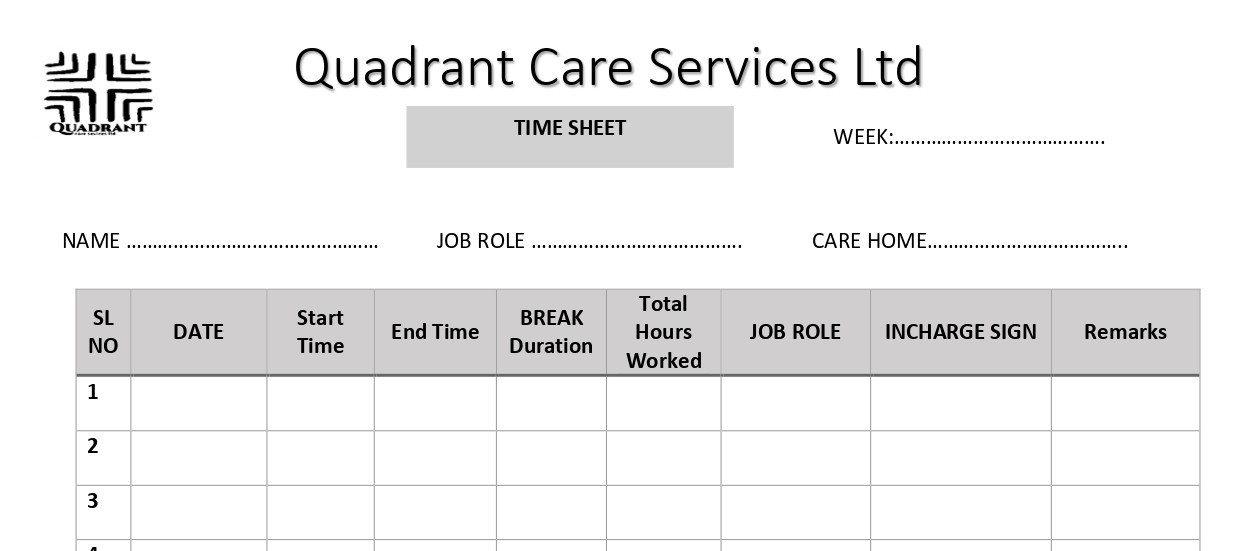
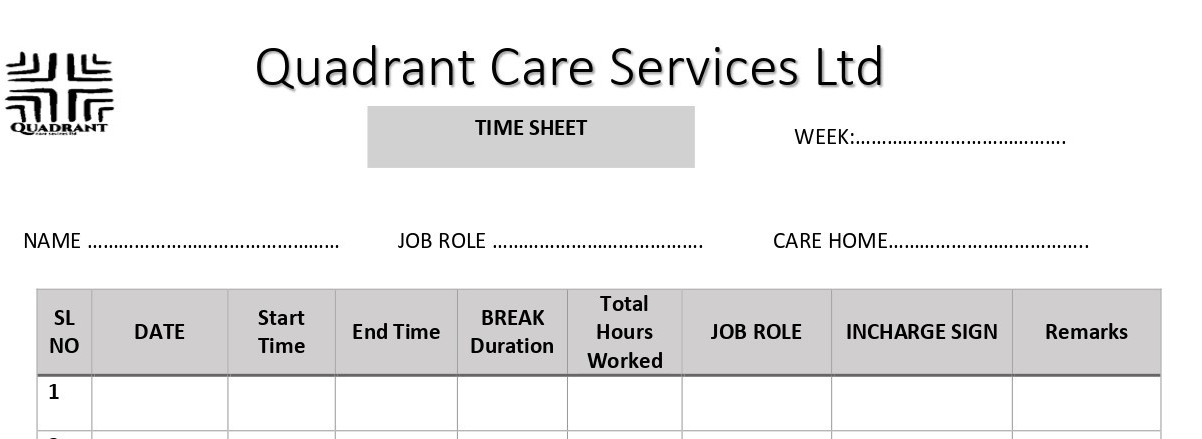
console update

diff --git a/public/app.js b/public/app.js
@@ -12,8 +12,8 @@ const TEMPLATE_URL = "/template.png";
 
 /**
  * IMPORTANT:
- * These coordinates are tuned for your A4 landscape-style template.
- * If anything is off by a little, we adjust these numbers.
+ * These coordinates assume the preview canvas is the SAME pixel size as the template image.
+ * We enforce that in renderTimesheet() by setting preview.width/height from template.
  */
 const COORDS = {
   week: { x: 1960, y: 265 },
@@ -32,11 +32,13 @@ const COORDS = {
     break: 920,
     total: 1150,
     jobRole: 1380,
-    signBoxX: 1600,   // where signature box starts visually
-    signBoxY: 520,    // top of signature cell area
-    signBoxW: 360,    // width of signature cell area
-    signBoxH: 120,    // height of signature cell area
     remarks: 1980,
+
+    // Signature box
+    signBoxX: 1600,
+    signBoxY: 520,
+    signBoxW: 360,
+    signBoxH: 120,
   },
 };
 
@@ -44,33 +46,37 @@ async function loadTemplate() {
   const img = new Image();
   img.crossOrigin = "anonymous";
   img.src = TEMPLATE_URL;
+
   await new Promise((res, rej) => {
     img.onload = res;
-    img.onerror = rej;
+    img.onerror = () => rej(new Error("Failed to load template.png"));
   });
+
   return img;
 }
 
 function formatDateForSheet(yyyy_mm_dd) {
   // input: "2026-02-05" -> output: "05/02/2026"
   if (!yyyy_mm_dd) return "";
-  const [y, m, d] = yyyy_mm_dd.split("-");
+  const [y, m, d] = String(yyyy_mm_dd).split("-");
+  if (!y || !m || !d) return String(yyyy_mm_dd);
   return `${d}/${m}/${y}`;
 }
 
-function drawText(value, x, y, font = "32px Arial") {
+function drawText(value, x, y, font = "30px Arial") {
   pctx.font = font;
   pctx.fillStyle = "#111";
-  pctx.textBaseline = "alphabetic";
+  pctx.textBaseline = "middle"; // easier alignment than alphabetic
   pctx.fillText(String(value ?? ""), x, y);
 }
 
 /** ---------------- Signature Pad ---------------- */
 function initSignaturePad() {
-  // Signature style
   sctx.lineWidth = 3;
   sctx.lineCap = "round";
   sctx.strokeStyle = "#111";
+
+  // Fill background white
   sctx.fillStyle = "#fff";
   sctx.fillRect(0, 0, sigPad.width, sigPad.height);
 
@@ -81,7 +87,7 @@ function initSignaturePad() {
     const rect = sigPad.getBoundingClientRect();
     const clientX = e.touches ? e.touches[0].clientX : e.clientX;
     const clientY = e.touches ? e.touches[0].clientY : e.clientY;
-    // scale to canvas coords
+
     const x = ((clientX - rect.left) / rect.width) * sigPad.width;
     const y = ((clientY - rect.top) / rect.height) * sigPad.height;
     return { x, y };
@@ -97,10 +103,12 @@ function initSignaturePad() {
     if (!drawing) return;
     e.preventDefault();
     const pos = getPos(e);
+
     sctx.beginPath();
     sctx.moveTo(last.x, last.y);
     sctx.lineTo(pos.x, pos.y);
     sctx.stroke();
+
     last = pos;
   }
 
@@ -126,13 +134,24 @@ function initSignaturePad() {
 }
 initSignaturePad();
 
+/** ---------------- Click-to-get-coordinates helper ---------------- */
+preview.addEventListener("click", (e) => {
+  const rect = preview.getBoundingClientRect();
+  const x = Math.round(((e.clientX - rect.left) / rect.width) * preview.width);
+  const y = Math.round(((e.clientY - rect.top) / rect.height) * preview.height);
+  console.log("COORD:", { x, y });
+});
+
 /** ---------------- Render final image ---------------- */
 async function renderTimesheet(data) {
   const template = await loadTemplate();
 
-  // Match template into preview canvas
+  // ✅ Force preview canvas to match template pixels exactly
+  preview.width = template.naturalWidth;
+  preview.height = template.naturalHeight;
+
   pctx.clearRect(0, 0, preview.width, preview.height);
-  pctx.drawImage(template, 0, 0, preview.width, preview.height);
+  pctx.drawImage(template, 0, 0);
 
   // Header fields
   drawText(data.week, COORDS.week.x, COORDS.week.y);
@@ -143,17 +162,15 @@ async function renderTimesheet(data) {
   // Single row text
   const y = COORDS.rowY;
   drawText("1", COORDS.colX.slno, y);
-
   drawText(formatDateForSheet(data.date), COORDS.colX.date, y);
   drawText(data.startTime, COORDS.colX.start, y);
   drawText(data.endTime, COORDS.colX.end, y);
-  drawText(String(data.breakMins), COORDS.colX.break, y);
-  drawText(String(data.totalHours), COORDS.colX.total, y);
-  drawText(data.jobRoleTop, COORDS.colX.jobRole, y); // reuse job role
+  drawText(String(data.breakMins ?? ""), COORDS.colX.break, y);
+  drawText(String(data.totalHours ?? ""), COORDS.colX.total, y);
+  drawText(data.jobRoleTop, COORDS.colX.jobRole, y);
   drawText(data.remarks, COORDS.colX.remarks, y);
 
-  // Place signature image into the “INCHARGE SIGN” cell
-  // We crop the signature pad and scale it into the signature box.
+  // Signature
   const sigImg = await canvasToImage(sigPad);
   pctx.drawImage(
     sigImg,
@@ -190,19 +207,26 @@ form.addEventListener("submit", async (e) => {
     const blob = await canvasToBlob(preview, "image/png");
     if (!blob) throw new Error("Failed to generate PNG");
 
-    const upload = new FormData();
     const rawName = String(data?.name ?? "").trim();
     const safeName = (rawName.length ? rawName : "employee").replace(/\s+/g, "_");
+
+    const upload = new FormData();
     upload.append("file", blob, `timesheet_${safeName}_${Date.now()}.png`);
     upload.append("meta", JSON.stringify(data));
 
     const res = await fetch("/api/submit", { method: "POST", body: upload });
-    const out = await res.json();
-    if (!res.ok) throw new Error(out?.error || "Upload failed");
+
+    // ✅ safer response parsing
+    const text = await res.text();
+    let out = {};
+    try { out = JSON.parse(text); } catch {}
+
+    if (!res.ok) throw new Error(out?.error || text || "Upload failed");
 
     statusEl.textContent = "Submitted ✅";
     form.reset();
-    // keep signature unless you want to clear it automatically
+    // (optional) keep signature, or clear it:
+    // clearSigBtn.click();
   } catch (err) {
     console.error(err);
     statusEl.textContent = `Error: ${err.message}`;

diff --git a/functions/api/submit.js b/functions/api/submit.js
@@ -1,25 +1,30 @@
+// functions/api/submit.js
+
 export async function onRequestPost({ request, env }) {
   try {
-    if (!env.TELEGRAM_BOT_TOKEN) throw new Error("Missing TELEGRAM_BOT_TOKEN");
-    if (!env.TELEGRAM_CHAT_ID) throw new Error("Missing TELEGRAM_CHAT_ID");
+    const token = env.TELEGRAM_BOT_TOKEN;
+    const chatId = env.TELEGRAM_CHAT_ID;
+
+    if (!token) return json({ error: "Missing TELEGRAM_BOT_TOKEN" }, 500);
+    if (!chatId) return json({ error: "Missing TELEGRAM_CHAT_ID" }, 500);
 
     const form = await request.formData();
-    const file = form.get("file");
-    const meta = form.get("meta");
+    const file = form.get("file");   // File (PNG)
+    const meta = form.get("meta");   // JSON string (optional)
 
     if (!file) return json({ error: "No file in request" }, 400);
 
     const caption = buildCaption(meta);
 
-    const tgRes = await sendToTelegram({
-      token: env.TELEGRAM_BOT_TOKEN,
-      chatId: env.TELEGRAM_CHAT_ID,
+    const result = await sendToTelegram({
+      token,
+      chatId,
       file,
       filename: file.name || `timesheet_${Date.now()}.png`,
       caption,
     });
 
-    return json({ ok: true, telegram: tgRes }, 200);
+    return json({ ok: true, telegram: result }, 200);
   } catch (e) {
     return json({ error: e?.message || String(e) }, 500);
   }
@@ -28,19 +33,22 @@ export async function onRequestPost({ request, env }) {
 function json(obj, status = 200) {
   return new Response(JSON.stringify(obj), {
     status,
-    headers: { "content-type": "application/json" },
+    headers: { "content-type": "application/json; charset=utf-8" },
   });
 }
 
 function buildCaption(meta) {
+  // meta comes from the browser as a string. Keep it safe.
   try {
     if (!meta) return "New timesheet submitted ✅";
     const d = JSON.parse(String(meta));
-    const name = d.name || "Employee";
-    const date = d.date || "";
-    const start = d.startTime || "";
-    const end = d.endTime || "";
-    const hours = d.totalHours || "";
+
+    const name = d?.name ? String(d.name) : "Employee";
+    const date = d?.date ? String(d.date) : "";
+    const start = d?.startTime ? String(d.startTime) : "";
+    const end = d?.endTime ? String(d.endTime) : "";
+    const hours = d?.totalHours ? String(d.totalHours) : "";
+
     return `New timesheet ✅\nName: ${name}\nDate: ${date}\nShift: ${start} - ${end}\nHours: ${hours}`;
   } catch {
     return "New timesheet submitted ✅";
@@ -56,10 +64,18 @@ async function sendToTelegram({ token, chatId, file, filename, caption }) {
   fd.append("document", file, filename);
 
   const res = await fetch(url, { method: "POST", body: fd });
-  const data = await res.json();
 
-  if (!res.ok || !data.ok) {
-    throw new Error(data?.description || "Telegram upload failed");
+  // Telegram usually returns JSON, but be defensive
+  const text = await res.text();
+  let data = {};
+  try { data = JSON.parse(text); } catch {}
+
+  if (!res.ok || data.ok !== true) {
+    const msg =
+      data?.description ||
+      (text ? `Telegram error: ${text}` : `Telegram upload failed (HTTP ${res.status})`);
+    throw new Error(msg);
   }
+
   return { message_id: data.result.message_id };
 }
